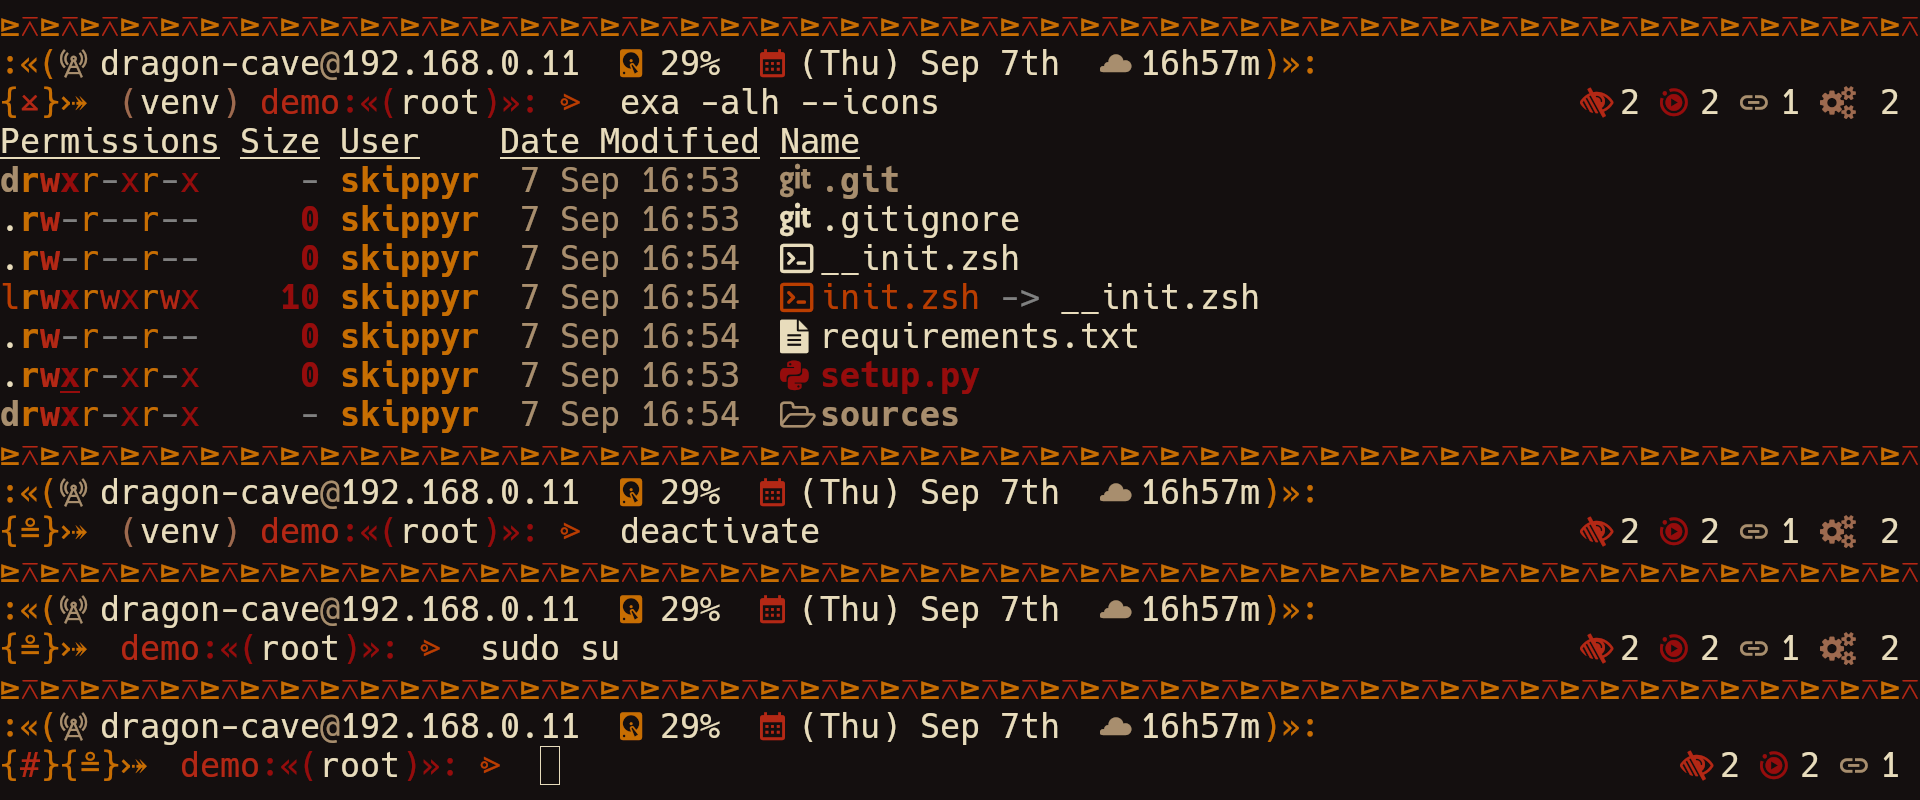
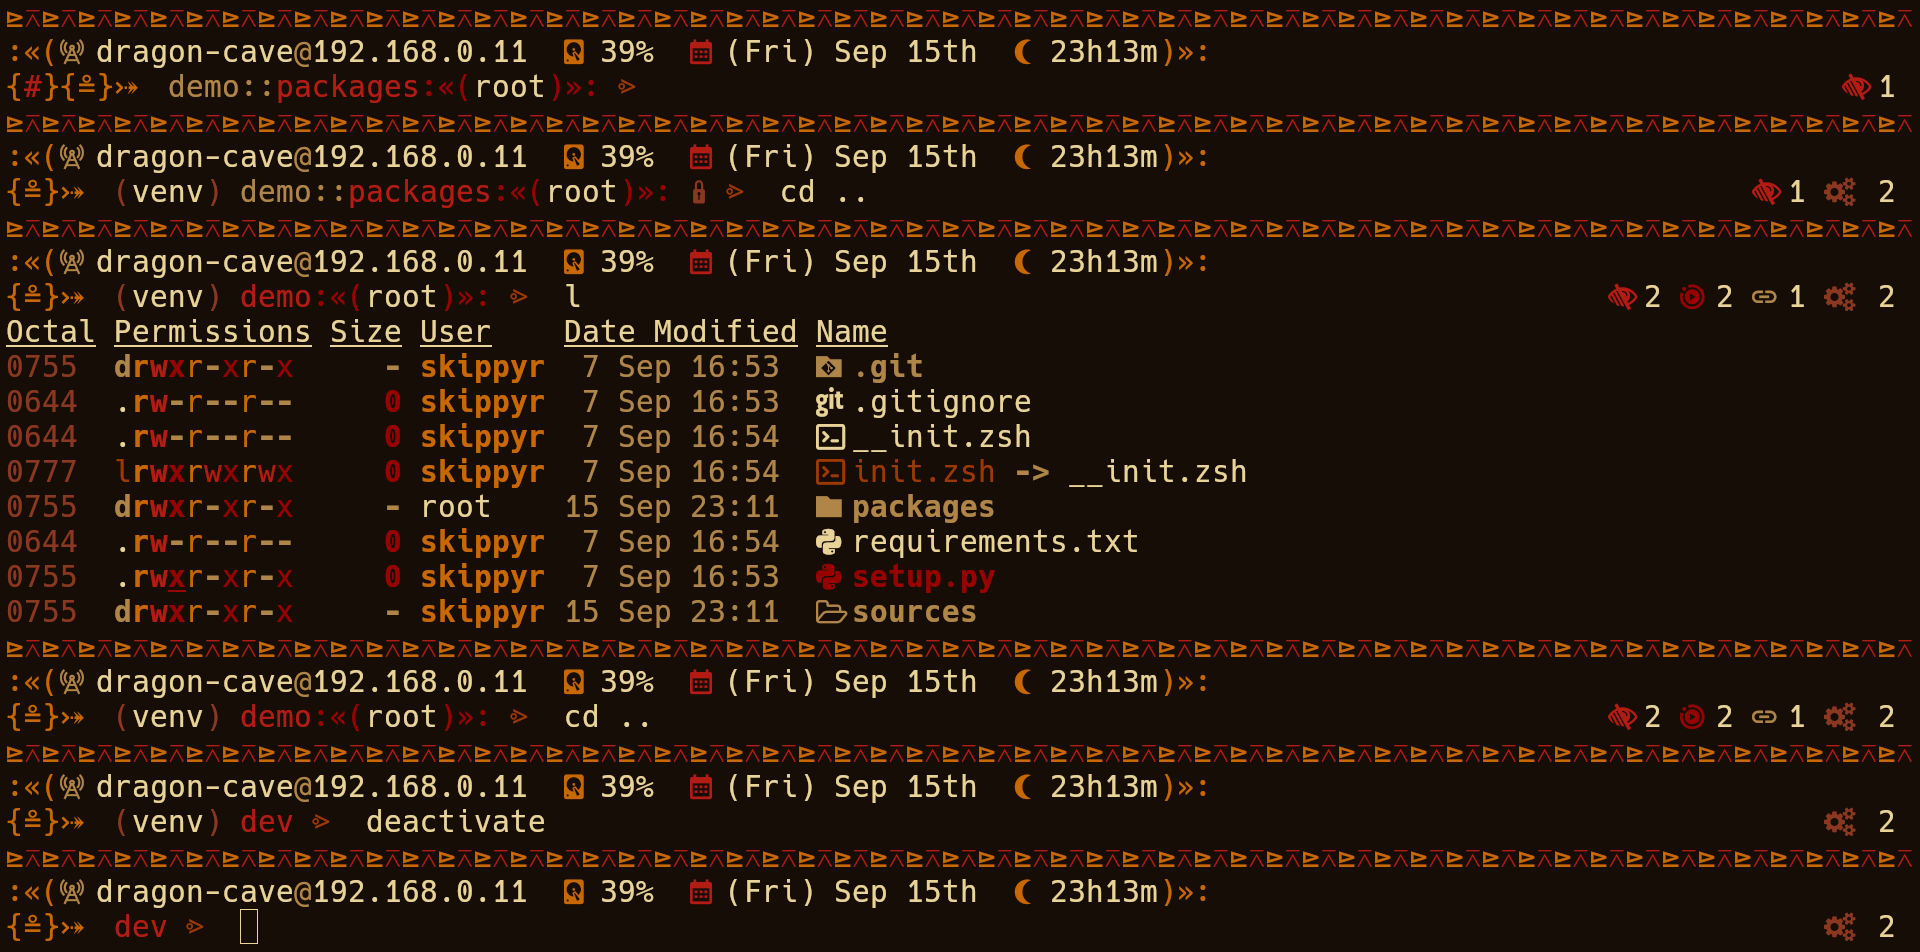
Add changes for release `v4.1.0`
This commit adds all the changes prototyped for release `v4.1.0`. Those
changes are:

- If deep inside a repository, The name of the current directory will be
  prefixed by its root name.
- If a valid local IP is not found, it will use the loopback IP,
  `127.0.0.1`, instead of `No Address Found`.

diff --git a/sources/left-prompt.cpp b/sources/left-prompt.cpp
@@ -31,11 +31,11 @@ getTerminalWidth()
 static std::string
 getLocalIPV4Address()
 {
-    std::string     noAddress = "No Address Found";
+    std::string     loopbackIP = "127.0.0.1";
     struct ifaddrs *interfaces;
     if (getifaddrs(&interfaces))
     {
-        return noAddress;
+        return loopbackIP;
     }
     for (struct ifaddrs *interface = interfaces; interface;
          interface                 = interface->ifa_next)
@@ -46,18 +46,18 @@ getLocalIPV4Address()
         {
             continue;
         }
-        char ip[16];
+        char IP[16];
         if (!inet_ntop(interface->ifa_addr->sa_family,
                        &((struct sockaddr_in *)interface->ifa_addr)->sin_addr,
-                       ip, sizeof(ip)))
+                       IP, sizeof(IP)))
         {
             continue;
         }
         freeifaddrs(interfaces);
-        return ip;
+        return IP;
     }
     freeifaddrs(interfaces);
-    return noAddress;
+    return loopbackIP;
 }
 
 static int
@@ -205,7 +205,7 @@ getEnvironmentVariable(const char *variable)
 }
 
 static std::string
-getRepositoryDirectory(std::string path)
+getRepository(std::string path)
 {
     DIR *stream = opendir(path.c_str());
     if (!stream)
@@ -222,16 +222,14 @@ getRepositoryDirectory(std::string path)
         }
     }
     closedir(stream);
-    return isRepository ? path : getRepositoryDirectory(getParent(path));
+    return isRepository ? path : getRepository(getParent(path));
 }
 
 static std::string
-getBranch()
+getBranch(std::string repository)
 {
-    std::string repository =
-                    getRepositoryDirectory(getEnvironmentVariable("PWD")),
-                head  = repository + "/.git/HEAD";
-    std::FILE *stream = std::fopen(head.c_str(), "r");
+    std::string head   = repository + "/.git/HEAD";
+    std::FILE  *stream = std::fopen(head.c_str(), "r");
     if (!stream)
     {
         return "";
@@ -319,15 +317,19 @@ printVirtualEnvironment()
 }
 
 static void
-printDirectory()
+printCurrentDirectory(std::string currentDirectory, std::string repository)
 {
+    if (repository != "" && currentDirectory != repository)
+    {
+        std::cout << "%F{8}" << getBaseName(repository) << "::";
+    }
     std::cout << "%F{1}%1~";
 }
 
 static void
-printBranch()
+printBranch(std::string repository)
 {
-    std::string branch = getBranch();
+    std::string branch = getBranch(repository);
     if (branch != "")
     {
         std::cout << "%F{2}:«(%f" << branch << "%F{2})»:";
@@ -335,7 +337,7 @@ printBranch()
 }
 
 static void
-printDirectoryOwnership()
+printCurrentDirectoryOwnership()
 {
     struct stat metadata;
     if (stat(".", &metadata))
@@ -352,7 +354,9 @@ printDirectoryOwnership()
 int
 main()
 {
-    struct std::tm *local_time = getLocalTime();
+    struct std::tm *local_time       = getLocalTime();
+    std::string     currentDirectory = getEnvironmentVariable("PWD");
+    std::string     repository       = getRepository(currentDirectory);
     printCommandsSeparator();
     std::cout << "%F{3}:«(";
     printLocalIPV4Address();
@@ -367,9 +371,9 @@ main()
     printExitCodeStatus();
     std::cout << "⤐  ";
     printVirtualEnvironment();
-    printDirectory();
-    printBranch();
-    printDirectoryOwnership();
+    printCurrentDirectory(currentDirectory, repository);
+    printBranch(repository);
+    printCurrentDirectoryOwnership();
     std::cout << " %F{6}⩺  %f" << std::endl;
     return EXIT_SUCCESS;
 }

diff --git a/README.md b/README.md
@@ -26,7 +26,8 @@ In the left prompt, you will find:
 - A decorator that alerts if you are the root user or not.
 - A decorator that alerts if the last command executed failed or not.
 - The name of sourced virtual environments.
-- The name of the directory you are currently in.
+- The name of the directory you are currently in. If deep inside a Git
+  repository, it will be prefixed by the repository's root directory name.
 - If inside a Git repository, the name of the active branch.
 - A decorator that alerts if you can make changes to the current directory or
   not.
